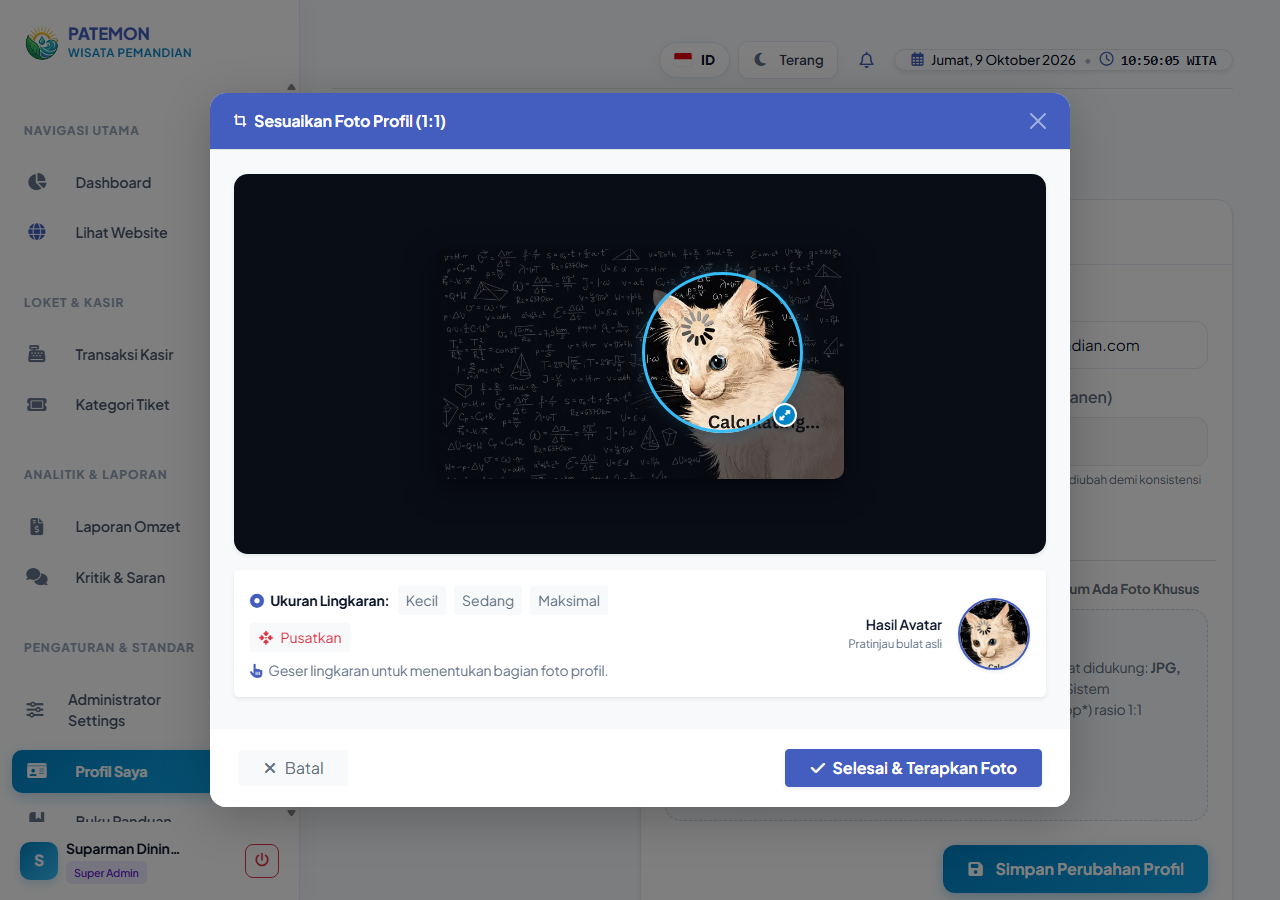
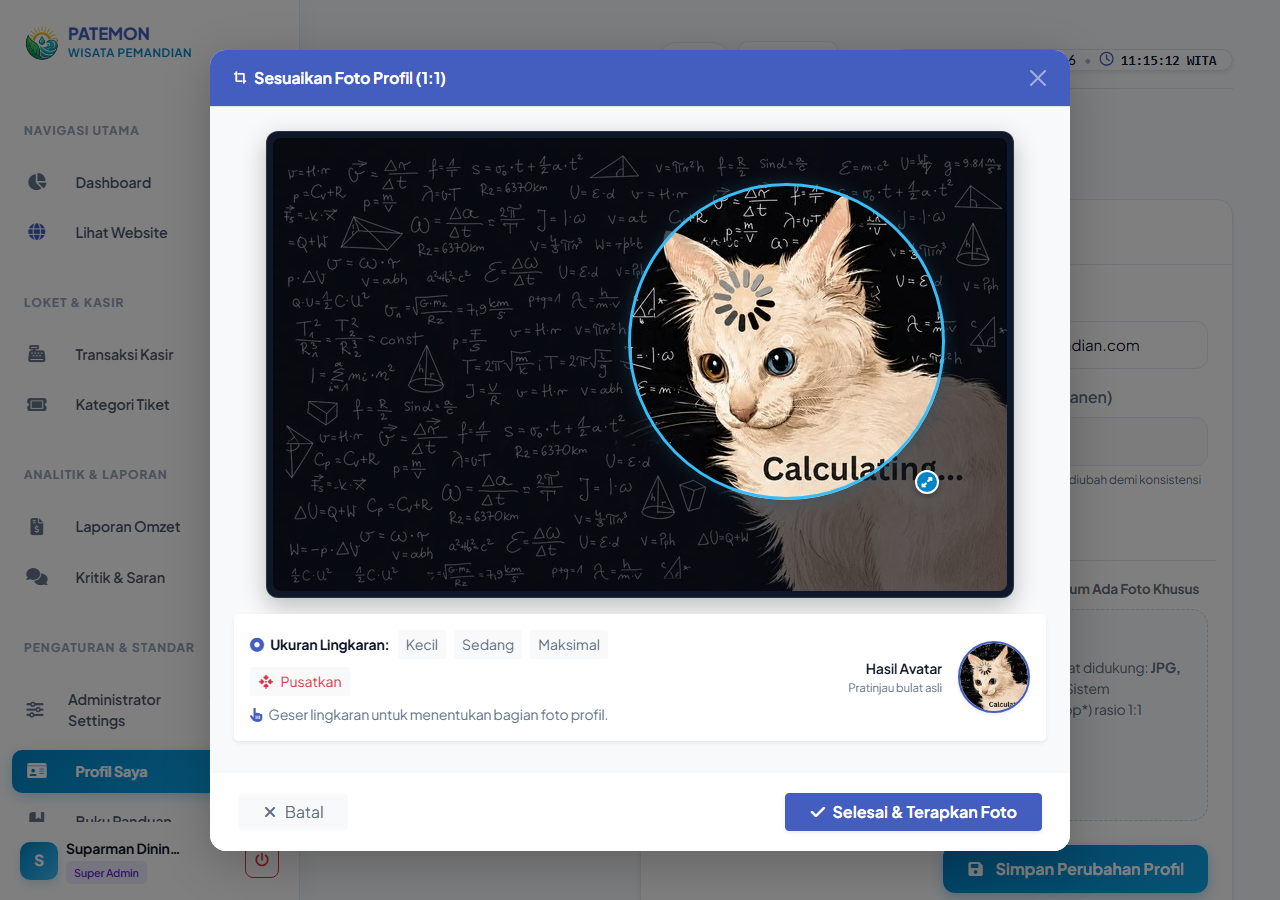
fix(profile): fix crop stage aspect ratio letterbox bleed and synchronize live preview 1:1

diff --git a/public/css/modern-theme.css b/public/css/modern-theme.css
@@ -761,7 +761,8 @@ img.img-cover,
     padding-right: 0 !important;
 }
 
-.modal .modal-body img {
+.portfolio-modal .modal-body img,
+.modal.portfolio-modal .modal-body img {
     max-height: 230px !important;
     width: 100% !important;
     object-fit: cover !important;

diff --git a/dist/views/profile/profile.php b/dist/views/profile/profile.php
@@ -239,40 +239,49 @@ include __DIR__ . '/../../app/layouts/admin_header.php';
 <link rel="stylesheet" href="<?= public_url('assets/extensions/cropperjs/cropper.min.css') ?>">
 <style>
 /* Styling Lensa Pemotong Foto & Stage Wallpaper */
-.crop-modal-stage-wrapper {
-    background: #090d16;
-    border-radius: 14px;
-    padding: 1.25rem;
+.crop-modal-stage-outer {
     display: flex;
+    justify-content: center;
+    align-items: center;
+    width: 100%;
+    margin-bottom: 1rem;
+}
+.crop-modal-stage-wrapper {
+    background: #0f172a;
+    border: 1px solid rgba(255, 255, 255, 0.12);
+    border-radius: 12px;
+    padding: 6px;
+    display: inline-flex;
     align-items: center;
     justify-content: center;
-    min-height: 380px;
-    max-height: 520px;
+    width: -moz-fit-content;
+    width: fit-content;
+    max-width: 100%;
     position: relative;
     overflow: hidden;
+    box-shadow: 0 8px 24px rgba(0, 0, 0, 0.25);
 }
 .crop-wallpaper-stage {
     position: relative;
-    display: inline-block;
-    max-width: 100%;
-    max-height: 460px;
+    display: block;
     line-height: 0;
     overflow: hidden;
-    border-radius: 10px;
-    box-shadow: 0 10px 30px rgba(0, 0, 0, 0.55);
+    border-radius: 8px;
     user-select: none;
     -webkit-user-select: none;
 }
 .crop-wallpaper-stage img.crop-wallpaper-img {
-    display: block;
-    max-width: 100%;
-    max-height: 460px;
-    width: auto;
-    height: auto;
-    object-fit: contain;
-    user-select: none;
-    -webkit-user-drag: none;
-    pointer-events: none;
+    display: block !important;
+    width: 100% !important;
+    height: 100% !important;
+    max-height: none !important;
+    max-width: none !important;
+    aspect-ratio: unset !important;
+    object-fit: fill !important;
+    border-radius: 8px !important;
+    user-select: none !important;
+    -webkit-user-drag: none !important;
+    pointer-events: none !important;
 }
 /* Lingkaran Lensa Transparan (Spotlight Lens) */
 .crop-lens {
@@ -559,12 +568,14 @@ include __DIR__ . '/../../app/layouts/admin_header.php';
             </div>
             <div class="modal-body p-4 bg-light">
                 <!-- Area Wallpaper Backdrop & Lensa Transparan 1:1 (Single Image, No Duplication) -->
-                <div class="crop-modal-stage-wrapper shadow-sm mb-3" id="cropStageWrapper">
-                    <div class="crop-wallpaper-stage" id="cropWallpaperStage">
-                        <img id="cropWallpaperImg" class="crop-wallpaper-img" src="" alt="Pratinjau Foto Profil">
-                        <div id="cropLens" class="crop-lens">
-                            <div class="crop-lens-handle" id="cropLensHandle" title="Tarik untuk memperbesar/memperkecil lingkaran crop">
-                                <i class="fa-solid fa-up-right-and-down-left-from-center"></i>
+                <div class="crop-modal-stage-outer">
+                    <div class="crop-modal-stage-wrapper" id="cropStageWrapper">
+                        <div class="crop-wallpaper-stage" id="cropWallpaperStage">
+                            <img id="cropWallpaperImg" class="crop-wallpaper-img" src="" alt="Pratinjau Foto Profil">
+                            <div id="cropLens" class="crop-lens">
+                                <div class="crop-lens-handle" id="cropLensHandle" title="Tarik untuk memperbesar/memperkecil lingkaran crop">
+                                    <i class="fa-solid fa-up-right-and-down-left-from-center"></i>
+                                </div>
                             </div>
                         </div>
                     </div>
@@ -627,6 +638,11 @@ document.addEventListener("DOMContentLoaded", function() {
     const stageWrapper = document.getElementById("cropStageWrapper");
     const stageEl = document.getElementById("cropWallpaperStage");
     const cropImg = document.getElementById("cropWallpaperImg");
+    if (cropImg) {
+        cropImg.onload = function() {
+            fitImageToStage(true);
+        };
+    }
     const cropLens = document.getElementById("cropLens");
     const lensHandle = document.getElementById("cropLensHandle");
     const liveCanvas = document.getElementById("liveCropPreviewCanvas");
@@ -637,6 +653,9 @@ document.addEventListener("DOMContentLoaded", function() {
 
     let rawImageDataUrl = "";
     let rawImageObj = new Image();
+    let stageRenderW = 0;
+    let stageRenderH = 0;
+    let imageScale = 1;
     let lensX = 0;
     let lensY = 0;
     let lensSize = 150;
@@ -649,14 +668,11 @@ document.addEventListener("DOMContentLoaded", function() {
     let initialLensSize = 150;
 
     function applyLensPosition() {
-        if (!cropLens || !cropImg) return;
-        const stageW = cropImg.offsetWidth;
-        const stageH = cropImg.offsetHeight;
-        if (stageW <= 0 || stageH <= 0) return;
+        if (!cropLens || stageRenderW <= 0) return;
 
-        lensSize = Math.max(cropConfig.minSize, Math.min(Math.min(stageW, stageH), lensSize));
-        lensX = Math.max(0, Math.min(stageW - lensSize, lensX));
-        lensY = Math.max(0, Math.min(stageH - lensSize, lensY));
+        lensSize = Math.max(cropConfig.minSize, Math.min(Math.min(stageRenderW, stageRenderH), lensSize));
+        lensX = Math.max(0, Math.min(stageRenderW - lensSize, lensX));
+        lensY = Math.max(0, Math.min(stageRenderH - lensSize, lensY));
 
         cropLens.style.width = lensSize + "px";
         cropLens.style.height = lensSize + "px";
@@ -665,17 +681,11 @@ document.addEventListener("DOMContentLoaded", function() {
     }
 
     function updateLivePreview() {
-        if (!liveCtx || !rawImageObj.complete || rawImageObj.naturalWidth === 0 || !cropImg) return;
-        const stageW = cropImg.offsetWidth;
-        const stageH = cropImg.offsetHeight;
-        if (stageW <= 0 || stageH <= 0) return;
+        if (!liveCtx || !rawImageObj.complete || rawImageObj.naturalWidth === 0 || stageRenderW <= 0) return;
 
-        const scaleX = rawImageObj.naturalWidth / stageW;
-        const scaleY = rawImageObj.naturalHeight / stageH;
-
-        const sx = Math.max(0, Math.min(rawImageObj.naturalWidth, lensX * scaleX));
-        const sy = Math.max(0, Math.min(rawImageObj.naturalHeight, lensY * scaleY));
-        const sSize = Math.min(lensSize * scaleX, Math.min(rawImageObj.naturalWidth - sx, rawImageObj.naturalHeight - sy));
+        const sx = Math.max(0, Math.min(rawImageObj.naturalWidth, Math.round(lensX * imageScale)));
+        const sy = Math.max(0, Math.min(rawImageObj.naturalHeight, Math.round(lensY * imageScale)));
+        const sSize = Math.max(1, Math.min(Math.round(lensSize * imageScale), Math.min(rawImageObj.naturalWidth - sx, rawImageObj.naturalHeight - sy)));
 
         liveCtx.clearRect(0, 0, liveCanvas.width, liveCanvas.height);
         liveCtx.save();
@@ -688,26 +698,57 @@ document.addEventListener("DOMContentLoaded", function() {
         liveCtx.restore();
     }
 
-    function initLensOnStage() {
-        if (!cropImg || !rawImageObj.complete || rawImageObj.naturalWidth === 0) return;
+    function fitImageToStage(resetPosition = false) {
+        if (!rawImageObj.complete || rawImageObj.naturalWidth === 0 || !stageWrapper) return;
 
-        requestAnimationFrame(function() {
-            const stageW = cropImg.offsetWidth;
-            const stageH = cropImg.offsetHeight;
-            if (stageW <= 0 || stageH <= 0) {
-                setTimeout(initLensOnStage, 60);
-                return;
-            }
+        // Wadah preview card yang fleksibel tanpa letterbox/kotak hitam 16:9
+        const modalBody = modalEl ? modalEl.querySelector(".modal-body") : null;
+        const availableW = modalBody ? Math.max(260, modalBody.clientWidth - 48) : 760;
+        const maxH = Math.min(window.innerHeight * 0.55, 480);
 
-            // Atur ukuran awal lingkaran sekitar 75% dari sisi terpendek gambar
-            lensSize = Math.round(Math.min(stageW, stageH) * 0.75);
-            lensX = Math.round((stageW - lensSize) / 2);
-            lensY = Math.round((stageH - lensSize) / 2);
+        const natW = rawImageObj.naturalWidth;
+        const natH = rawImageObj.naturalHeight;
 
-            applyLensPosition();
-            updateLivePreview();
-        });
+        // Skala proporsional murni berdasarkan rasio aspek alami gambar asli
+        const scale = Math.min(availableW / natW, maxH / natH, 1);
+        stageRenderW = Math.max(80, Math.round(natW * scale));
+        stageRenderH = Math.max(80, Math.round(natH * scale));
+        imageScale = natW / stageRenderW;
+
+        // Atur dimensi stage dan img secara presisi sama agar pas tanpa sisa hitam di dalam stage
+        if (stageEl) {
+            stageEl.style.width = stageRenderW + "px";
+            stageEl.style.height = stageRenderH + "px";
+        }
+        if (cropImg) {
+            cropImg.style.width = stageRenderW + "px";
+            cropImg.style.height = stageRenderH + "px";
+        }
+
+        const minDim = Math.min(stageRenderW, stageRenderH);
+        lensSize = Math.max(cropConfig.minSize, Math.min(minDim, lensSize || Math.round(minDim * 0.75)));
+
+        if (resetPosition || (lensX === 0 && lensY === 0)) {
+            lensX = Math.round((stageRenderW - lensSize) / 2);
+            lensY = Math.round((stageRenderH - lensSize) / 2);
+        } else {
+            lensX = Math.max(0, Math.min(stageRenderW - lensSize, lensX));
+            lensY = Math.max(0, Math.min(stageRenderH - lensSize, lensY));
+        }
+
+        applyLensPosition();
+        updateLivePreview();
     }
+
+    function initLensOnStage() {
+        fitImageToStage(true);
+    }
+
+    window.addEventListener("resize", function() {
+        if (modalEl && modalEl.classList.contains("show")) {
+            fitImageToStage(false);
+        }
+    });
 
     // Pasang listener drag pada lensa transparan (pointer events)
     if (cropLens) {
@@ -724,14 +765,12 @@ document.addEventListener("DOMContentLoaded", function() {
         });
 
         cropLens.addEventListener("pointermove", function(e) {
-            if (!isDragging || !cropImg) return;
-            const stageW = cropImg.offsetWidth;
-            const stageH = cropImg.offsetHeight;
+            if (!isDragging || stageRenderW <= 0) return;
             const dx = e.clientX - dragStartX;
             const dy = e.clientY - dragStartY;
 
-            lensX = Math.max(0, Math.min(stageW - lensSize, initialLensX + dx));
-            lensY = Math.max(0, Math.min(stageH - lensSize, initialLensY + dy));
+            lensX = Math.max(0, Math.min(stageRenderW - lensSize, initialLensX + dx));
+            lensY = Math.max(0, Math.min(stageRenderH - lensSize, initialLensY + dy));
 
             applyLensPosition();
             updateLivePreview();
@@ -761,11 +800,9 @@ document.addEventListener("DOMContentLoaded", function() {
         });
 
         lensHandle.addEventListener("pointermove", function(e) {
-            if (!isResizing || !cropImg) return;
-            const stageW = cropImg.offsetWidth;
-            const stageH = cropImg.offsetHeight;
+            if (!isResizing || stageRenderW <= 0) return;
             const delta = Math.max(e.clientX - dragStartX, e.clientY - dragStartY);
-            const maxPossible = Math.min(stageW - lensX, stageH - lensY);
+            const maxPossible = Math.min(stageRenderW - lensX, stageRenderH - lensY);
 
             lensSize = Math.max(cropConfig.minSize, Math.min(maxPossible, initialLensSize + delta));
             applyLensPosition();
@@ -784,35 +821,39 @@ document.addEventListener("DOMContentLoaded", function() {
 
     // Tombol Preset Ukuran Lingkaran
     document.getElementById("btnLensSizeSm")?.addEventListener("click", function() {
-        if (!cropImg) return;
-        const minDim = Math.min(cropImg.offsetWidth, cropImg.offsetHeight);
+        if (stageRenderW <= 0) return;
+        const minDim = Math.min(stageRenderW, stageRenderH);
         lensSize = Math.max(cropConfig.minSize, Math.round(minDim * 0.45));
+        lensX = Math.max(0, Math.min(stageRenderW - lensSize, lensX));
+        lensY = Math.max(0, Math.min(stageRenderH - lensSize, lensY));
         applyLensPosition();
         updateLivePreview();
     });
 
     document.getElementById("btnLensSizeMd")?.addEventListener("click", function() {
-        if (!cropImg) return;
-        const minDim = Math.min(cropImg.offsetWidth, cropImg.offsetHeight);
+        if (stageRenderW <= 0) return;
+        const minDim = Math.min(stageRenderW, stageRenderH);
         lensSize = Math.max(cropConfig.minSize, Math.round(minDim * 0.70));
+        lensX = Math.max(0, Math.min(stageRenderW - lensSize, lensX));
+        lensY = Math.max(0, Math.min(stageRenderH - lensSize, lensY));
         applyLensPosition();
         updateLivePreview();
     });
 
     document.getElementById("btnLensSizeLg")?.addEventListener("click", function() {
-        if (!cropImg) return;
-        const minDim = Math.min(cropImg.offsetWidth, cropImg.offsetHeight);
+        if (stageRenderW <= 0) return;
+        const minDim = Math.min(stageRenderW, stageRenderH);
         lensSize = minDim;
-        lensX = Math.round((cropImg.offsetWidth - lensSize) / 2);
-        lensY = Math.round((cropImg.offsetHeight - lensSize) / 2);
+        lensX = Math.round((stageRenderW - lensSize) / 2);
+        lensY = Math.round((stageRenderH - lensSize) / 2);
         applyLensPosition();
         updateLivePreview();
     });
 
     document.getElementById("btnResetLens")?.addEventListener("click", function() {
-        if (!cropImg) return;
-        lensX = Math.round((cropImg.offsetWidth - lensSize) / 2);
-        lensY = Math.round((cropImg.offsetHeight - lensSize) / 2);
+        if (stageRenderW <= 0) return;
+        lensX = Math.round((stageRenderW - lensSize) / 2);
+        lensY = Math.round((stageRenderH - lensSize) / 2);
         applyLensPosition();
         updateLivePreview();
     });
@@ -945,24 +986,14 @@ document.addEventListener("DOMContentLoaded", function() {
 
     // Terapkan Crop Foto ke Format 1:1 Resolusi Tinggi
     document.getElementById("btnApplyCrop")?.addEventListener("click", function() {
-        if (!rawImageObj.complete || rawImageObj.naturalWidth === 0 || !cropImg) {
+        if (!rawImageObj.complete || rawImageObj.naturalWidth === 0 || stageRenderW <= 0) {
             closeCropModal();
             return;
         }
 
-        const stageW = cropImg.offsetWidth;
-        const stageH = cropImg.offsetHeight;
-        if (stageW <= 0 || stageH <= 0) {
-            closeCropModal();
-            return;
-        }
-
-        const scaleX = rawImageObj.naturalWidth / stageW;
-        const scaleY = rawImageObj.naturalHeight / stageH;
-
-        const sx = Math.max(0, Math.min(rawImageObj.naturalWidth, lensX * scaleX));
-        const sy = Math.max(0, Math.min(rawImageObj.naturalHeight, lensY * scaleY));
-        const sSize = Math.min(lensSize * scaleX, Math.min(rawImageObj.naturalWidth - sx, rawImageObj.naturalHeight - sy));
+        const sx = Math.max(0, Math.min(rawImageObj.naturalWidth, Math.round(lensX * imageScale)));
+        const sy = Math.max(0, Math.min(rawImageObj.naturalHeight, Math.round(lensY * imageScale)));
+        const sSize = Math.max(1, Math.min(Math.round(lensSize * imageScale), Math.min(rawImageObj.naturalWidth - sx, rawImageObj.naturalHeight - sy)));
 
         const exportCanvas = document.createElement("canvas");
         exportCanvas.width = cropConfig.exportSize;
